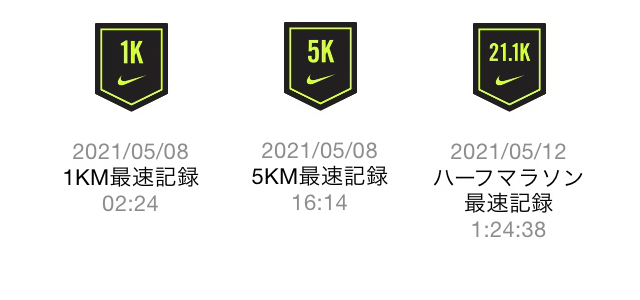
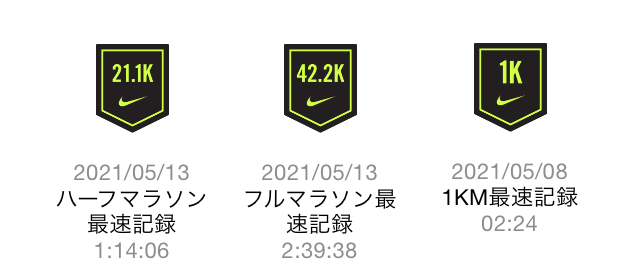
fix

Changed region(s): [[0.0938, 0.0571, 0.3125, 0.9429], [0.375, 0.0571, 0.625, 0.9429], [0.6875, 0.0571, 0.9062, 0.8286]]

diff --git a/content/blog/2021-05-14-nike.md b/content/blog/2021-05-14-nike.md
@@ -1,0 +1,30 @@
++++
+date = "2021-05-14"
+tags = ["nike"]
+title = "はじめて42kmを走ってみた"
+slug = "nike"
++++
+
+やってみようかなという気分だったので、この前、42.2kmを走ってみました。
+
+![](https://raw.githubusercontent.com/syui/img/master/other/nike_running_20210514_01.png)
+![](https://raw.githubusercontent.com/syui/img/master/other/nike_running_20210514_02.png)
+
+42.195kmというと有名ですから、一度走ってみようと、そう思ったのです。
+
+ただ、私、ランニングにはあまり興味がないので、今まで走ったことがありませんでした。
+
+これは前にも書いたと思いますけど、私、走るのが好きだから走ってるわけでは全くなくて、日課だから渋々やっているという感じなんです。
+
+自分で決めてやってることなんですが、もっと楽な生き方、より良い生き方はあるはずです。何が言いたいのかというと、毎日走るの大変だと思う。
+
+私の場合は日課なので、走らないと気分が悪いというか、納得できないというか、そんな感じなので走ってるだけです。
+
+そんな中、たまにやる気になることもあって、アプリを入れたとか、そういうことがあると、少しの期間だけは頑張ることがあります。
+
+おそらく、今回もその類でしょう。すぐに飽きてやめちゃいますけどね。タイムとかもよくわからないし、興味もないので。他人がどれだけのタイムを出そうが、そんなことどうでも良くて、私は日課としてやるだけなので。
+
+ですが、今回はたまたまアプリを入れたこともあって、ちょっと頑張ってみたんですが、42kmは正直、きつかった。
+
+走り終わったあとは、頭の火照りは取れないし、足は吊るしで、なんかしんどかった。でも寝たら治った。以上。
+
